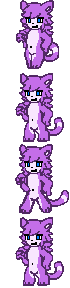
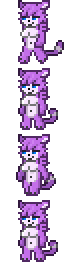
Updated some NPCs and added Puroomba cage

diff --git a/Content/Tiles/Furniture/SweeperPuroCage.cs b/Content/Tiles/Furniture/SweeperPuroCage.cs
@@ -1,0 +1,99 @@
+using ChangedSpecialMod.Common.Systems;
+using ChangedSpecialMod.Content.NPCs;
+using Microsoft.Xna.Framework;
+using Terraria;
+using Terraria.GameContent.Drawing;
+using Terraria.ID;
+using Terraria.ModLoader;
+using Terraria.ObjectData;
+
+namespace ChangedSpecialMod.Content.Tiles.Furniture
+{
+    public class SweeperPuroCage : ModTile
+    {
+        public override void SetStaticDefaults()
+        {
+            // Here we just copy a bunch of values from the frog cage tile
+            TileID.Sets.CritterCageLidStyle[Type] = TileID.Sets.CritterCageLidStyle[TileID.SquirrelCage]; // This is how vanilla draws the roof of the cage
+            Main.tileFrameImportant[Type] = Main.tileFrameImportant[TileID.SquirrelCage];
+            Main.tileLavaDeath[Type] = Main.tileLavaDeath[TileID.SquirrelCage];
+            Main.tileSolidTop[Type] = Main.tileSolidTop[TileID.SquirrelCage];
+            Main.tileTable[Type] = Main.tileTable[TileID.SquirrelCage];
+            //AdjTiles = [TileID.FrogCage, TileID.GoldFrogCage]; // Just in case another mod uses the frog cage to craft
+            AnimationFrameHeight = 54;
+
+            // We can copy the TileObjectData directly from an existing tile to copy changes, if any, made to the TileObjectData template the original tile copied from.
+            // In this case, the original FrogCage tile is an exact copy of TileObjectData.StyleSmallCage, so either approach works here.
+            TileObjectData.newTile.CopyFrom(TileObjectData.GetTileData(TileID.SquirrelCage, 0));
+            // or TileObjectData.newTile.CopyFrom(TileObjectData.StyleSmallCage);
+            TileObjectData.addTile(Type);
+
+            // Since this tile is only used for a single item, we can reuse the item localization for the map entry.
+            //AddMapEntry(new Color(122, 217, 232), ModContent.GetInstance<ExampleCritterCageItem>().DisplayName);
+        }
+
+        public override void SetDrawPositions(int i, int j, ref int width, ref int offsetY, ref int height, ref short tileFrameX, ref short tileFrameY)
+        {
+            offsetY = 2; // From vanilla
+            Main.critterCage = true; // Vanilla doesn't run the animation code for critters unless this is checked
+        }
+
+        public override void AnimateIndividualTile(int type, int i, int j, ref int frameXOffset, ref int frameYOffset)
+        {
+            Tile tile = Main.tile[i, j];
+            // The GetSmallAnimalCageFrame method utilizes some math to stagger each individual tile. First the top left tile is found, then those coordinates are passed into some math to stagger an index into Main.snail2CageFrame
+            // Main.frogCageFrame is used since we want the same animation, but if we wanted a different frame count or a different animation timing, we could write our own by adapting vanilla code and placing the code in AnimateTile
+            int tileCageFrameIndex = TileDrawing.GetBigAnimalCageFrame(i, j, tile.TileFrameX, tile.TileFrameY);
+            var frameIndex = ModSupportSystem.sweeperPuroCageAnimationFrameIndex;
+            frameYOffset = Main.frogCageFrame[tileCageFrameIndex] * AnimationFrameHeight;
+
+            var coords = TileObjectData.TopLeft(i, j);
+            var topLeftTile = Main.tile[coords.X, coords.Y];
+
+            var index = coords.X + coords.Y;
+            //frameIndex = (index + frameIndex) % 24;
+            frameIndex = ModSupportSystem.sweeperPuroCageAnimationFrameIndexs[index % 24];
+
+            frameYOffset = frameIndex * AnimationFrameHeight;
+        }
+
+        // Here is an example of what manually implementing the critter cage frames for a unique animation would look like.
+        // This is the worm cage animation code, which is the simplest vanilla example.
+        // See the Main.AnimateTiles_CritterCages source code and https://terraria.wiki.gg/wiki/Cages#Action_patterns to work out how existing animations are implemented if you wish to implement a custom critter animation.
+        /*
+		public static int[] cageFrames = new int[Main.cageFrames];
+		public static int[] cageFrameCounters = new int[Main.cageFrames];
+
+		public override void AnimateTile(ref int frame, ref int frameCounter) {
+			for (int i = 0; i < Main.cageFrames; i++) { // The for loop updates the frames for each of the staggered animations.
+				cageFrameCounters[i]++;
+				if (cageFrameCounters[i] < Main.rand.Next(30, 91)) // Adds randomness to the animation speed
+					continue;
+
+				cageFrameCounters[i] = 0;
+				if (!Main.rand.NextBool(4))
+					continue;
+
+				// Initially the frame is in the 'O' animation, frames 0 - 8
+				cageFrames[i]++;
+				if (cageFrames[i] == 9 && Main.rand.NextBool(2))
+					cageFrames[i] = 0; // 50% chance to restart the 'O' animation, otherwise proceed to '8' animation (frames 9 - 18)
+
+				// Once the '8' animation is finished, either restart the '0' or '8' animation
+				if (cageFrames[i] > 18) {
+					if (Main.rand.NextBool(2))
+						cageFrames[i] = 9;
+					else
+						cageFrames[i] = 0;
+				}
+			}
+		}
+
+		public override void AnimateIndividualTile(int type, int i, int j, ref int frameXOffset, ref int frameYOffset) {
+			Tile tile = Main.tile[i, j];
+			int tileCageFrameIndex = TileDrawing.GetSmallAnimalCageFrame(i, j, tile.TileFrameX, tile.TileFrameY);
+			frameYOffset = cageFrames[tileCageFrameIndex] * AnimationFrameHeight;
+		}
+		*/
+    }
+}

diff --git a/Common/Systems/ModSupportSystem.cs b/Common/Systems/ModSupportSystem.cs
@@ -2,6 +2,7 @@
 using ChangedSpecialMod.Content.Items.Summons;
 using ChangedSpecialMod.Content.NPCs;
 using ChangedSpecialMod.Content.NPCs.TownPets;
+using ChangedSpecialMod.Utilities;
 using Microsoft.Xna.Framework;
 using Microsoft.Xna.Framework.Graphics;
 using ReLogic.OS;
@@ -97,7 +98,49 @@ namespace ChangedSpecialMod.Common.Systems
         private static int indexTitleMessageMin = 1;
         private static int indexTitleMessageMax = 5;
 
+        public static float sweeperPuroCageAnimationFrameCounter = 0;
+        public static int sweeperPuroCageAnimationFrameIndex = 0;
+        public static bool sweeperPuroCageAnimate = true;
+
+        public static float[] sweeperPuroCageAnimationFrameCounters = new float[24];
+        public static int[] sweeperPuroCageAnimationFrameIndexs = new int[24];
+        public static float[] sweeperPuroCageAnimationSpeeds = new float[24];
+        public static bool[] sweeperPuroCageAnimates = new bool[24];
+
         public static List<ExternalModData> externalModsData;
+
+        public override void PostUpdateWorld()
+        {
+            for (int i = 0; i < 24; i++)
+            {
+                if (Main.rand.NextBool(300))
+                {
+                    sweeperPuroCageAnimates[i] = !sweeperPuroCageAnimates[i];
+                    sweeperPuroCageAnimationSpeeds[i] = ChangedUtils.Choose(1, 2);
+                    if (Main.rand.NextBool(20))
+                        sweeperPuroCageAnimationSpeeds[i] = 4;
+                }
+
+                if (sweeperPuroCageAnimates[i])
+                {
+                    var animSpeed = sweeperPuroCageAnimationSpeeds[i];
+                    sweeperPuroCageAnimationFrameCounters[i] += animSpeed;
+                    sweeperPuroCageAnimationFrameIndexs[i] = (int)(sweeperPuroCageAnimationFrameCounters[i] / 8) % 24;
+                }
+            }
+            /*
+            if (Main.rand.NextBool(300))
+            {
+                sweeperPuroCageAnimate = !sweeperPuroCageAnimate;
+            }
+
+            if (sweeperPuroCageAnimate)
+            {
+                sweeperPuroCageAnimationFrameCounter++;
+                sweeperPuroCageAnimationFrameIndex = (int)(sweeperPuroCageAnimationFrameCounter / 8) % 24;
+            }
+            */
+        }
 
         public override void Load()
         {

diff --git a/Content/NPCs/Purrpurr.cs b/Content/NPCs/Purrpurr.cs
@@ -44,14 +44,14 @@ namespace ChangedSpecialMod.Content.NPCs
             NPC.rarity = 2;
             AIType = NPCID.GoblinScout;
 			AnimationType = NPCID.Zombie;
-            SpawnModBiomes = new int[] { ModContent.GetInstance<CityRuinsSurfaceBiome>().Type };
+            //SpawnModBiomes = new int[] { ModContent.GetInstance<CityRuinsSurfaceBiome>().Type };
             
             Banner = Type;
             BannerItem = ModContent.ItemType<Items.Placeable.Banners.PurrpurrBanner>();
             ItemID.Sets.KillsToBanner[BannerItem] = 25;
 
             var changedNPC = NPC.Changed();
-            changedNPC.BaseScaleMultiplier = 0.9f;
+            //changedNPC.BaseScaleMultiplier = 0.9f;
             changedNPC.AdjustStatScaling(NPC);
             changedNPC.SetNPCName(NPC);
             changedNPC.HatYOffset = -34;
@@ -69,14 +69,19 @@ namespace ChangedSpecialMod.Content.NPCs
 
         public override void ModifyNPCLoot(NPCLoot npcLoot)
         {
-            var nChest = Main.chest.Length;
-
             npcLoot.Add(ItemDropRule.Common(ModContent.ItemType<WhiskerStaff>(), 5));
         }
 
         public override float SpawnChance(NPCSpawnInfo spawnInfo)
         {
-            return ChangedUtils.GetWorldEvilSpawnChance(spawnInfo, NPC, ModContent.NPCType<Purrpurr>(), false);
+            if (!ChangedUtils.CanSpawn(SpawnRequirement.WolfKing) || NPC.AnyNPCs(ModContent.NPCType<Purrpurr>()))
+                return 0;
+
+            var spawnTileType = spawnInfo.SpawnTileType;
+            if (TileID.Sets.CorruptCountCollection.Contains(spawnTileType))
+                return 0.1f;
+
+            return 0;
         }
 
         private void UpdateHatPosition(int frameHeight)
@@ -111,6 +116,7 @@ namespace ChangedSpecialMod.Content.NPCs
             bestiaryEntry.Info.AddRange(new IBestiaryInfoElement[]
             {
                 new NPCPortraitInfoElement(3),
+                BestiaryDatabaseNPCsPopulator.CommonTags.SpawnConditions.Biomes.TheCorruption,
                 new FlavorTextBestiaryInfoElement(Language.GetTextValue("Mods.ChangedSpecialMod.NPCs.Purrpurr.Description")),
             });
         }

diff --git a/Content/NPCs/Bloodstripe.cs b/Content/NPCs/Bloodstripe.cs
@@ -42,7 +42,7 @@ namespace ChangedSpecialMod.Content.NPCs
             NPC.rarity = 2;
             AIType = NPCID.GoblinScout;
 			AnimationType = NPCID.Zombie;
-            SpawnModBiomes = new int[] { ModContent.GetInstance<CityRuinsSurfaceBiome>().Type };
+            //SpawnModBiomes = new int[] { ModContent.GetInstance<CityRuinsSurfaceBiome>().Type };
             
             Banner = Type;
             BannerItem = ModContent.ItemType<Items.Placeable.Banners.BloodstripeBanner>();
@@ -70,8 +70,21 @@ namespace ChangedSpecialMod.Content.NPCs
 
         public override float SpawnChance(NPCSpawnInfo spawnInfo)
         {
+            if (!ChangedUtils.CanSpawn(SpawnRequirement.WolfKing) || NPC.AnyNPCs(ModContent.NPCType<Bloodstripe>()))
+                return 0;
+
+            var spawnTileType = spawnInfo.SpawnTileType;
+            if (TileID.Sets.CrimsonCountCollection.Contains(spawnTileType))
+                return 0.1f;
+
+            return 0;
+        }
+        /*
+        public override float SpawnChance(NPCSpawnInfo spawnInfo)
+        {
             return ChangedUtils.GetWorldEvilSpawnChance(spawnInfo, NPC, ModContent.NPCType<Bloodstripe>(), true);
         }
+        */
 
         private void UpdateHatPosition(int frameHeight)
         {
@@ -108,6 +121,7 @@ namespace ChangedSpecialMod.Content.NPCs
             bestiaryEntry.Info.AddRange(new IBestiaryInfoElement[]
             {
                 new NPCPortraitInfoElement(3),
+                BestiaryDatabaseNPCsPopulator.CommonTags.SpawnConditions.Biomes.TheCrimson,
                 new FlavorTextBestiaryInfoElement(Language.GetTextValue("Mods.ChangedSpecialMod.NPCs.Bloodstripe.Description")),
             });
         }

diff --git a/Content/NPCs/Wendigo.cs b/Content/NPCs/Wendigo.cs
@@ -18,8 +18,8 @@ namespace ChangedSpecialMod.Content.NPCs
             NPCID.Sets.NPCBestiaryDrawModifiers value = new NPCID.Sets.NPCBestiaryDrawModifiers()
             {
                 Velocity = 1f,
-                Scale = 1 / NPC.scale * 0.6f,
-                PortraitScale = 1 / NPC.scale * 0.6f
+                Scale = 1 / NPC.scale,
+                PortraitScale = 1 / NPC.scale 
             };
             NPCID.Sets.NPCBestiaryDrawOffset.Add(Type, value);
         }
@@ -27,7 +27,7 @@ namespace ChangedSpecialMod.Content.NPCs
 		public override void SetDefaults() 
         {
 			NPC.width = 40;
-			NPC.height = 96;
+			NPC.height = 80;
             NPC.damage = 40;
             NPC.defense = 12;
             NPC.lifeMax = 300;
@@ -47,7 +47,7 @@ namespace ChangedSpecialMod.Content.NPCs
             ItemID.Sets.KillsToBanner[BannerItem] = 25;
 
             var changedNPC = NPC.Changed();
-            changedNPC.BaseScaleMultiplier = 0.7f;
+            //changedNPC.BaseScaleMultiplier = 0.7f;
             changedNPC.AdjustStatScaling(NPC);
             changedNPC.SetNPCName(NPC);
             changedNPC.GooType = GooType.Black;
@@ -67,7 +67,7 @@ namespace ChangedSpecialMod.Content.NPCs
                 return 0;
 
             var changedNPC = NPC.Changed();
-            return 0.3f * ChangedUtils.GetSurfaceSpawnChance(spawnInfo, changedNPC, NPC.type);
+            return 0.1f * ChangedUtils.GetSurfaceSpawnChance(spawnInfo, changedNPC, NPC.type);
         }
 
         public override void SetBestiary(BestiaryDatabase database, BestiaryEntry bestiaryEntry)

diff --git a/Content/Items/Placeable/Furniture/SweeperPuroCage.cs b/Content/Items/Placeable/Furniture/SweeperPuroCage.cs
@@ -1,0 +1,25 @@
+using ChangedSpecialMod.Content.NPCs;
+using Terraria;
+using Terraria.ID;
+using Terraria.ModLoader;
+
+namespace ChangedSpecialMod.Content.Items.Placeable.Furniture
+{
+    public class SweeperPuroCage : ModItem
+    {
+        public override void SetDefaults()
+        {
+            Item.CloneDefaults(ItemID.SquirrelCage);
+            Item.createTile = ModContent.TileType<Tiles.Furniture.SweeperPuroCage>();
+        }
+
+        public override void AddRecipes()
+        {
+            CreateRecipe()
+                .AddIngredient(ItemID.Terrarium)
+                .AddIngredient(ModContent.ItemType<SweeperPuroItem>())
+                //.SortAfterFirstRecipesOf(ItemID.FrogCage) // places the recipe right after vanilla frog cage recipe.
+                .Register();
+        }
+    }
+}

diff --git a/Content/NPCs/MutatedLatex.cs b/Content/NPCs/MutatedLatex.cs
@@ -73,8 +73,8 @@ namespace ChangedSpecialMod.Content.NPCs
             NPCID.Sets.NPCBestiaryDrawModifiers value = new NPCID.Sets.NPCBestiaryDrawModifiers()
             {
                 Velocity = 1f,
-                Scale = 1 / NPC.scale * 0.2f,
-                PortraitScale = 1 / NPC.scale * 0.2f
+                Scale = 1 / NPC.scale * 0.15f,
+                PortraitScale = 1 / NPC.scale * 0.15f
             };
             NPCID.Sets.NPCBestiaryDrawOffset.Add(Type, value);
         }

diff --git a/Content/Projectiles/WhiskerStaffProjectile.cs b/Content/Projectiles/WhiskerStaffProjectile.cs
@@ -28,6 +28,7 @@ namespace ChangedSpecialMod.Content.Projectiles
             Projectile.usesLocalNPCImmunity = true;
             Projectile.localNPCHitCooldown = 15;
             Projectile.DamageType = DamageClass.Summon;
+            Projectile.ArmorPenetration = 10;
         }
         public override bool MinionContactDamage()
         {
